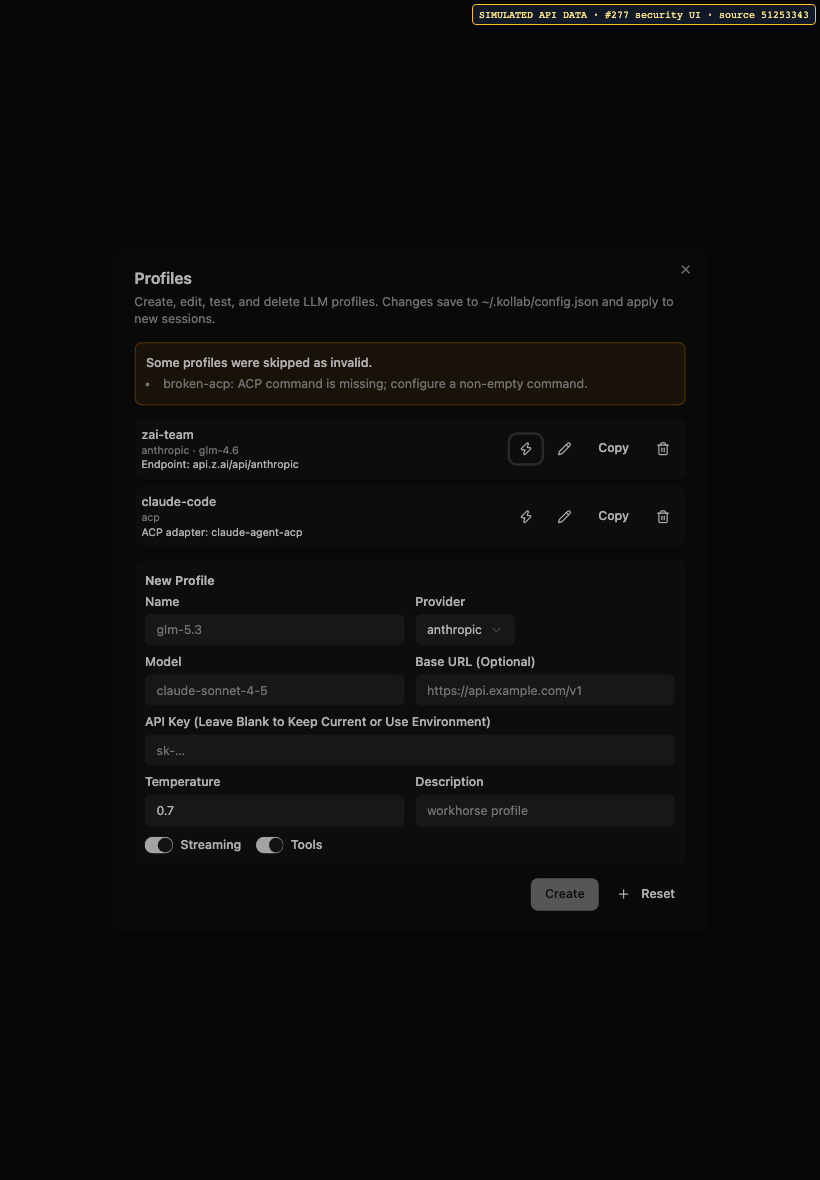
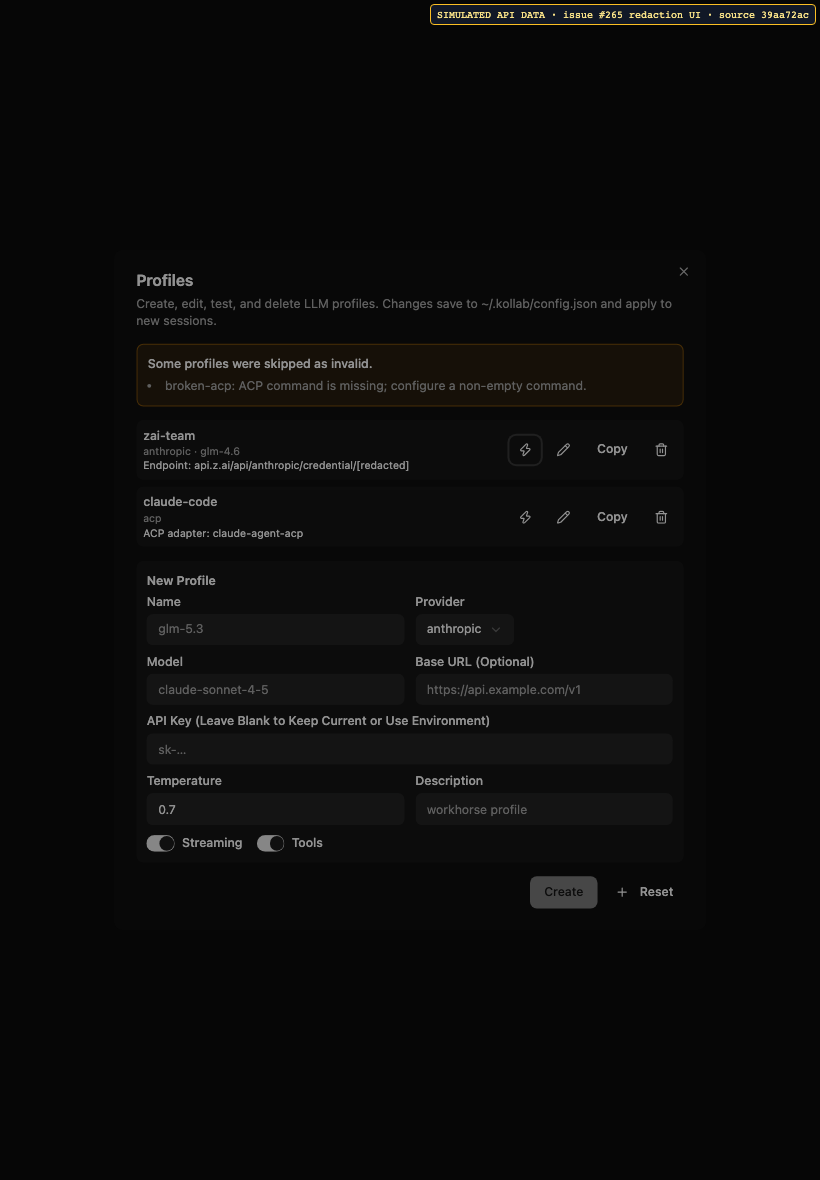
docs: document path redaction and refresh screenshots

diff --git a/CHANGELOG.md b/CHANGELOG.md
@@ -15,6 +15,7 @@ and this project adheres to [Semantic Versioning](https://semver.org/spec/v2.0.0
 - ACP profile switching now uses the ACP harness instead of native provider construction. Missing native providers raise a profile-specific actionable error.
 - Environment-backed API keys are not copied into config; configure the target profile's environment variable first. Keyring references remain shared.
 - Profile API responses, state snapshots, and CLI summaries omit URL userinfo/query/fragment, credential-like path segments, header values, ACP command arguments, and local runtime paths; unchanged redacted endpoint edits preserve server-side configuration.
+- Updating a model-less ACP profile to a native provider now requires a native model; invalid combinations return an actionable validation error without mutating the profile.
 
 ## [0.17.0] - 2026-10-19
 

diff --git a/kollabor/updates/CHANGELOG.md b/kollabor/updates/CHANGELOG.md
@@ -15,6 +15,7 @@ and this project adheres to [Semantic Versioning](https://semver.org/spec/v2.0.0
 - ACP profile switching now uses the ACP harness instead of native provider construction. Missing native providers raise a profile-specific actionable error.
 - Environment-backed API keys are not copied into config; configure the target profile's environment variable first. Keyring references remain shared.
 - Profile API responses, state snapshots, and CLI summaries omit URL userinfo/query/fragment, credential-like path segments, header values, ACP command arguments, and local runtime paths; unchanged redacted endpoint edits preserve server-side configuration.
+- Updating a model-less ACP profile to a native provider now requires a native model; invalid combinations return an actionable validation error without mutating the profile.
 
 ## [0.17.0] - 2026-10-19
 

diff --git a/README.md b/README.md
@@ -96,7 +96,9 @@ Keep these three names separate:
 Copy a saved profile in the terminal with `/model copy <source-profile> <new-name>`,
 then switch with `/model set <new-name>`. The Web UI Profiles panel also has a
 Copy action. Copies retain ACP adapter commands and other settings stored only
-on the engine. The UI shows the provider and sanitized endpoint/ACP adapter.
+on the engine. ACP profiles may be model-less; switching one to a native
+provider requires a native model. The UI shows the provider and sanitized
+endpoint/ACP adapter.
 Profile API responses, state snapshots, and CLI summaries omit URL
 userinfo, query/fragment, credential-like path segments, header values, ACP
 command arguments, and local runtime paths. Copies still preserve those settings server-side. If an endpoint

diff --git a/docs/features/profiles.md b/docs/features/profiles.md
@@ -490,7 +490,9 @@ Each provider has unique configuration options. See [providers.md](../providers.
   ```
   `KOLLAB_API_KEY` is a global fallback; keyring references remain shared. ACP
   profiles do not need a model string; their adapter command is the required
-  runtime setting.
+  runtime setting. When switching an ACP profile to a native provider, provide
+  a native model; a provider-only update is rejected without changing the ACP
+  profile.
 - Profiles with invalid configuration are skipped individually, not allowed to
   break the profile list. The Web UI displays the skipped names and diagnostics.
   Restore the reported setting (for example an ACP `command`) before copying.
